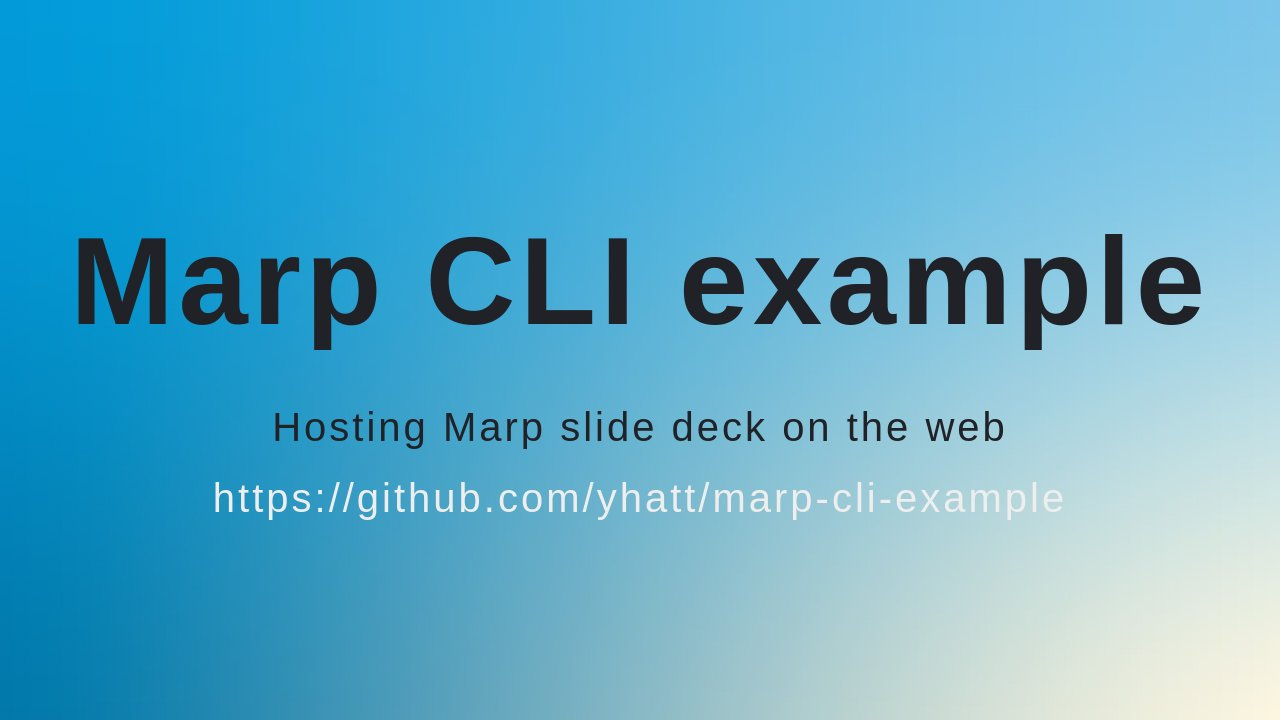
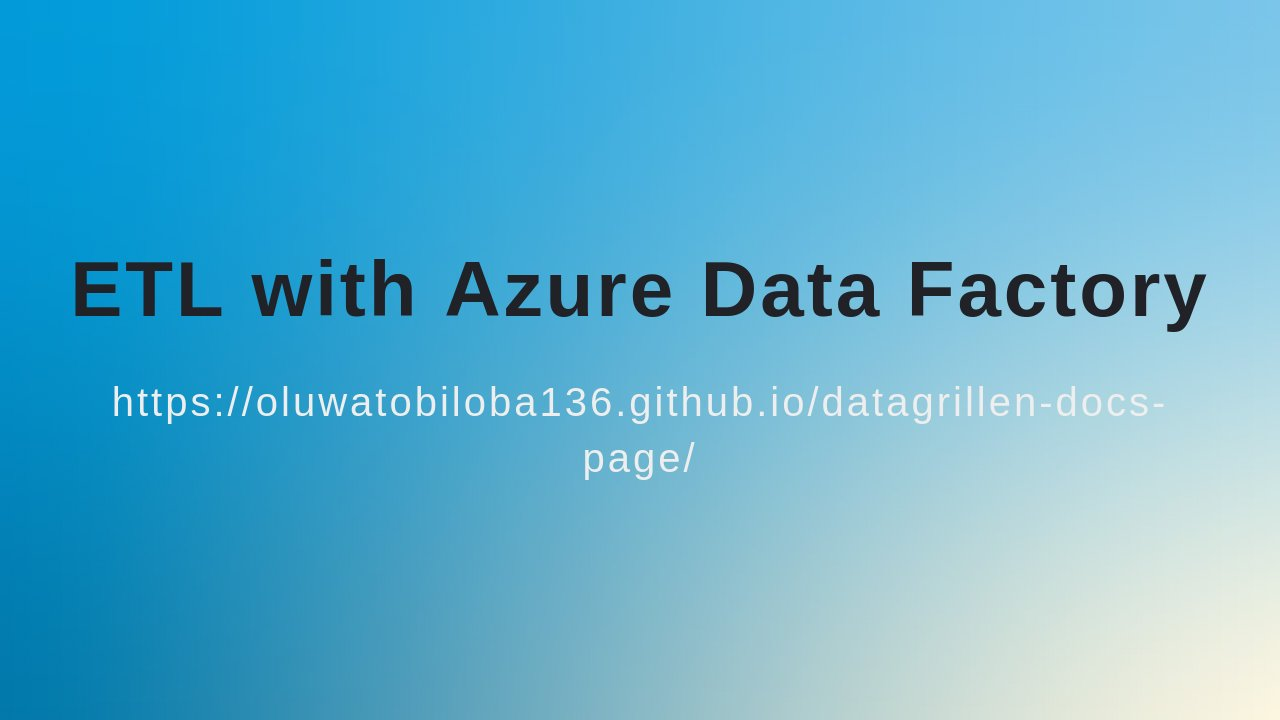
Deploying to gh-pages from  @ 49e7d1d1608596ef21d6ab6153a20d2b8307864e 🚀

Changed region(s): [[0.0312, 0.3056, 0.9375, 0.4889], [0.0625, 0.5194, 0.9062, 0.7333]]

diff --git a/index.html b/index.html
@@ -8,10 +8,10 @@
  * @auto-scaling fittingHeader,math
  * @size 16:9 1280px 720px
  * @size 4:3 960px 720px
[1 lines of base64/hex data omitted]
-<h1><svg data-marp-fitting="svg"><foreignObject><span data-marp-fitting-svg-content> Marp CLI example</span></foreignObject></svg></h1>
-<p>Hosting Marp slide deck on the web</p>
-<p><a href="https://github.com/yhatt/marp-cli-example">https://github.com/yhatt/marp-cli-example</a></p>
[1 lines of base64/hex data omitted]
+<h1><svg data-marp-fitting="svg"><foreignObject><span data-marp-fitting-svg-content> ETL with Azure Data Factory</span></foreignObject></svg></h1>
+
+<p><a href="https://oluwatobiloba136.github.io/datagrillen-docs-page/">https://oluwatobiloba136.github.io/datagrillen-docs-page/</a></p>
 </section>
 </foreignObject><foreignObject width="1280" height="720" data-marpit-advanced-background="pseudo"><section style="" data-marpit-advanced-background="pseudo"></section></foreignObject></svg><svg data-marpit-svg="" viewBox="0 0 1280 720"><foreignObject width="1280" height="720"><section data-paginate="true" data-theme="uncover" data-marpit-pagination="2" data-marpit-pagination-total="8" style="--paginate:true;--theme:uncover;" data-marpit-advanced-background="background"><div data-marpit-advanced-background-container="true" data-marpit-advanced-background-direction="horizontal"><figure style="background-image:url(&quot;https://raw.githubusercontent.com/marp-team/marp/master/marp.png&quot;);background-size:60%;"></figure></div></section></foreignObject><foreignObject width="1280" height="720"><section id="2" data-paginate="true" data-theme="uncover" data-marpit-pagination="2" data-marpit-pagination-total="8" style="--paginate:true;--theme:uncover;" data-marpit-advanced-background="content"></section>
 </foreignObject><foreignObject width="1280" height="720" data-marpit-advanced-background="pseudo"><section style="" data-marpit-advanced-background="pseudo" data-marpit-pagination="2" data-marpit-pagination-total="8"></section></foreignObject></svg><svg data-marpit-svg="" viewBox="0 0 1280 720"><foreignObject width="1280" height="720"><section id="3" data-paginate="true" data-theme="uncover" data-background-color="#123" data-color="#fff" data-marpit-pagination="3" data-marpit-pagination-total="8" style="--paginate:true;--theme:uncover;--background-color:#123;--color:#fff;color:#fff;background-color:#123;background-image:none;">
@@ -41,5 +41,5 @@
 <p><a href="https://github.com/yhatt/marp-cli-example">https://github.com/yhatt/marp-cli-example</a></p>
 </section>
 <script>!function(){"use strict";const t="marpitSVGPolyfill:setZoomFactor,",e=Symbol();let r,o;function n(n){const i="object"==typeof n&&n.target||document,a="object"==typeof n?n.zoom:n;window[e]||(Object.defineProperty(window,e,{configurable:!0,value:!0}),window.addEventListener("message",(({data:e,origin:r})=>{if(r===window.origin)try{if(e&&"string"==typeof e&&e.startsWith(t)){const[,t]=e.split(","),r=Number.parseFloat(t);Number.isNaN(r)||(o=r)}}catch(t){console.error(t)}})));let l=!1;Array.from(i.querySelectorAll("svg[data-marpit-svg]"),(t=>{var e,n,i,s;t.style.transform||(t.style.transform="translateZ(0)");const c=a||o||t.currentScale||1;r!==c&&(r=c,l=c);const d=t.getBoundingClientRect(),{length:u}=t.children;for(let r=0;r<u;r+=1){const o=t.children[r],a=o.getScreenCTM();if(a){const t=null!==(n=null===(e=o.x)||void 0===e?void 0:e.baseVal.value)&&void 0!==n?n:0,r=null!==(s=null===(i=o.y)||void 0===i?void 0:i.baseVal.value)&&void 0!==s?s:0,l=o.firstElementChild,{style:u}=l;u.transformOrigin||(u.transformOrigin=`${-t}px ${-r}px`),u.transform=`scale(${c}) matrix(${a.a}, ${a.b}, ${a.c}, ${a.d}, ${a.e-d.left}, ${a.f-d.top}) translateZ(0.0001px)`}}})),!1!==l&&Array.from(i.querySelectorAll("iframe"),(({contentWindow:e})=>{null==e||e.postMessage(`${t}${l}`,"null"===window.origin?"*":window.origin)}))}r=1,o=void 0;const i=(t,e,r)=>{if(t.getAttribute(e)!==r)return t.setAttribute(e,r),!0};function a({once:t=!1,target:e=document}={}){const r="Apple Computer, Inc."===navigator.vendor?[n]:[];let o=!t;const a=()=>{for(const t of r)t({target:e});!function(t=document){Array.from(t.querySelectorAll('svg[data-marp-fitting="svg"]'),(t=>{var e;const r=t.firstChild,o=r.firstChild,{scrollWidth:n,scrollHeight:a}=o;let l,s=1;if(t.hasAttribute("data-marp-fitting-code")&&(l=null===(e=t.parentElement)||void 0===e?void 0:e.parentElement),t.hasAttribute("data-marp-fitting-math")&&(l=t.parentElement),l){const t=getComputedStyle(l),e=Math.ceil(l.clientWidth-parseFloat(t.paddingLeft||"0")-parseFloat(t.paddingRight||"0"));e&&(s=e)}const c=Math.max(n,s),d=Math.max(a,1),u=`0 0 ${c} ${d}`;i(r,"width",`${c}`),i(r,"height",`${d}`),i(t,"preserveAspectRatio",getComputedStyle(t).getPropertyValue("--preserve-aspect-ratio")||"xMinYMin meet"),i(t,"viewBox",u)&&t.classList.toggle("__reflow__")}))}(e),o&&window.requestAnimationFrame(a)};return a(),()=>{o=!1}}const l=Symbol(),s=document.currentScript;((t=document)=>{if("undefined"==typeof window)throw new Error("Marp Core's browser script is valid only in browser context.");if(t[l])return t[l];const e=a({target:t}),r=()=>{e(),delete t[l]};Object.defineProperty(t,l,{configurable:!0,value:r})})(s?s.getRootNode():document)}();
-</script></foreignObject><foreignObject width="1280" height="720" data-marpit-advanced-background="pseudo"><section style="" data-marpit-advanced-background="pseudo" data-marpit-pagination="8" data-marpit-pagination-total="8"></section></foreignObject></svg></div><div class="bespoke-marp-note" data-index="0" tabindex="0"><p>This is presenter note. You can write down notes through HTML comment.</p></div><script>/*!! License: https://unpkg.com/@marp-team/marp-cli@1.7.0/lib/bespoke.js.LICENSE.txt */
+</script></foreignObject><foreignObject width="1280" height="720" data-marpit-advanced-background="pseudo"><section style="" data-marpit-advanced-background="pseudo" data-marpit-pagination="8" data-marpit-pagination-total="8"></section></foreignObject></svg></div><div class="bespoke-marp-note" data-index="0" tabindex="0"><p>Hosting Marp slide deck on the web</p><p>This is presenter note. You can write down notes through HTML comment.</p></div><script>/*!! License: https://unpkg.com/@marp-team/marp-cli@1.7.0/lib/bespoke.js.LICENSE.txt */
 !function(){"use strict";const e=document.body,t=(...e)=>history.replaceState(...e),n="presenter",r="next",o=["",n,r],a="data-bespoke-marp-",i=(e,{protocol:t,host:n,pathname:r,hash:o}=location)=>{const a=e.toString();return`${t}//${n}${r}${a?"?":""}${a}${o}`},s=()=>e.dataset.bespokeView,l=e=>new URLSearchParams(location.search).get(e),d=(e,n={})=>{var r;const o={location,setter:t,...n},a=new URLSearchParams(o.location.search);for(const t of Object.keys(e)){const n=e[t];"string"==typeof n?a.set(t,n):a.delete(t)}try{o.setter({...null!==(r=window.history.state)&&void 0!==r?r:{}},"",i(a,o.location))}catch(e){console.error(e)}},c=(()=>{const e="bespoke-marp";try{return localStorage.setItem(e,e),localStorage.removeItem(e),!0}catch(e){return!1}})(),u=e=>{try{return localStorage.getItem(e)}catch(e){return null}},f=(e,t)=>{try{return localStorage.setItem(e,t),!0}catch(e){return!1}},m=e=>{try{return localStorage.removeItem(e),!0}catch(e){return!1}},g=(e,t)=>{const n="aria-hidden";t?e.setAttribute(n,"true"):e.removeAttribute(n)},p=e=>{e.parent.classList.add("bespoke-marp-parent"),e.slides.forEach((e=>e.classList.add("bespoke-marp-slide"))),e.on("activate",(t=>{const n="bespoke-marp-active",r=t.slide,o=r.classList,a=!o.contains(n);if(e.slides.forEach((e=>{e.classList.remove(n),g(e,!0)})),o.add(n),g(r,!1),a){const e=`${n}-ready`;o.add(e),document.body.clientHeight,o.remove(e)}}))},v=e=>{let t=0,n=0;Object.defineProperty(e,"fragments",{enumerable:!0,value:e.slides.map((e=>[null,...e.querySelectorAll("[data-marpit-fragment]")]))});const r=r=>void 0!==e.fragments[t][n+r],o=(r,o)=>{t=r,n=o,e.fragments.forEach(((e,t)=>{e.forEach(((e,n)=>{if(null==e)return;const i=t<r||t===r&&n<=o;e.setAttribute(`${a}fragment`,(i?"":"in")+"active");const s=`${a}current-fragment`;t===r&&n===o?e.setAttribute(s,"current"):e.removeAttribute(s)}))})),e.fragmentIndex=o;const i={slide:e.slides[r],index:r,fragments:e.fragments[r],fragmentIndex:o};e.fire("fragment",i)};e.on("next",(({fragment:a=!0})=>{if(a){if(r(1))return o(t,n+1),!1;const a=t+1;e.fragments[a]&&o(a,0)}else{const r=e.fragments[t].length;if(n+1<r)return o(t,r-1),!1;const a=e.fragments[t+1];a&&o(t+1,a.length-1)}})),e.on("prev",(({fragment:a=!0})=>{if(r(-1)&&a)return o(t,n-1),!1;const i=t-1;e.fragments[i]&&o(i,e.fragments[i].length-1)})),e.on("slide",(({index:t,fragment:n})=>{let r=0;if(void 0!==n){const o=e.fragments[t];if(o){const{length:e}=o;r=-1===n?e-1:Math.min(Math.max(n,0),e-1)}}o(t,r)})),o(0,0)},h=document,y=()=>!(!h.fullscreenEnabled&&!h.webkitFullscreenEnabled),b=()=>!(!h.fullscreenElement&&!h.webkitFullscreenElement),x=e=>{e.fullscreen=()=>{y()&&(async()=>{return b()?null===(e=h.exitFullscreen||h.webkitExitFullscreen)||void 0===e?void 0:e.call(h):((e=h.body)=>{var t;return null===(t=e.requestFullscreen||e.webkitRequestFullscreen)||void 0===t?void 0:t.call(e)})();var e})()},document.addEventListener("keydown",(t=>{"f"!==t.key&&"F11"!==t.key||t.altKey||t.ctrlKey||t.metaKey||!y()||(e.fullscreen(),t.preventDefault())}))},w="bespoke-marp-inactive",k=(e=2e3)=>({parent:t,fire:n})=>{const r=t.classList,o=e=>n(`marp-${e?"":"in"}active`);let a;const i=()=>{a&&clearTimeout(a),a=setTimeout((()=>{r.add(w),o()}),e),r.contains(w)&&(r.remove(w),o(!0))};for(const e of["mousedown","mousemove","touchend"])document.addEventListener(e,i);setTimeout(i,0)},E=["AUDIO","BUTTON","INPUT","SELECT","TEXTAREA","VIDEO"],L=e=>{e.parent.addEventListener("keydown",(e=>{if(!e.target)return;const t=e.target;(E.includes(t.nodeName)||"true"===t.contentEditable)&&e.stopPropagation()}))},$=e=>{window.addEventListener("load",(()=>{for(const t of e.slides){const e=t.querySelector("[data-marp-fitting]")?"":"hideable";t.setAttribute(`${a}load`,e)}}))},S=({interval:e=250}={})=>t=>{document.addEventListener("keydown",(e=>{if(" "===e.key&&e.shiftKey)t.prev();else if("ArrowLeft"===e.key||"ArrowUp"===e.key||"PageUp"===e.key)t.prev({fragment:!e.shiftKey});else if(" "!==e.key||e.shiftKey)if("ArrowRight"===e.key||"ArrowDown"===e.key||"PageDown"===e.key)t.next({fragment:!e.shiftKey});else if("End"===e.key)t.slide(t.slides.length-1,{fragment:-1});else{if("Home"!==e.key)return;t.slide(0)}else t.next();e.preventDefault()}));let n,r,o=0;t.parent.addEventListener("wheel",(a=>{let i=!1;const s=(e,t)=>{e&&(i=i||((e,t)=>((e,t)=>{const n="X"===t?"Width":"Height";return e[`client${n}`]<e[`scroll${n}`]})(e,t)&&((e,t)=>{const{overflow:n}=e,r=e[`overflow${t}`];return"auto"===n||"scroll"===n||"auto"===r||"scroll"===r})(getComputedStyle(e),t))(e,t)),(null==e?void 0:e.parentElement)&&s(e.parentElement,t)};if(0!==a.deltaX&&s(a.target,"X"),0!==a.deltaY&&s(a.target,"Y"),i)return;a.preventDefault();const l=Math.sqrt(a.deltaX**2+a.deltaY**2);if(void 0!==a.wheelDelta){if(void 0===a.webkitForce&&Math.abs(a.wheelDelta)<40)return;if(a.deltaMode===a.DOM_DELTA_PIXEL&&l<4)return}else if(a.deltaMode===a.DOM_DELTA_PIXEL&&l<12)return;r&&clearTimeout(r),r=setTimeout((()=>{n=0}),e);const d=Date.now()-o<e,c=l<=n;if(n=l,d||c)return;let u;(a.deltaX>0||a.deltaY>0)&&(u="next"),(a.deltaX<0||a.deltaY<0)&&(u="prev"),u&&(t[u](),o=Date.now())}))},P=(e=".bespoke-marp-osc")=>{const t=document.querySelector(e);if(!t)return()=>{};const n=(e,n)=>{t.querySelectorAll(`[${a}osc=${JSON.stringify(e)}]`).forEach(n)};return y()||n("fullscreen",(e=>e.style.display="none")),c||n("presenter",(e=>{e.disabled=!0,e.title="Presenter view is disabled due to restricted localStorage."})),e=>{t.addEventListener("click",(t=>{if(t.target instanceof HTMLElement){const{bespokeMarpOsc:n}=t.target.dataset;n&&t.target.blur();const r={fragment:!t.shiftKey};"next"===n?e.next(r):"prev"===n?e.prev(r):"fullscreen"===n?null==e||e.fullscreen():"presenter"===n&&e.openPresenterView()}})),e.parent.appendChild(t),e.on("activate",(({index:t})=>{n("page",(n=>n.textContent=`Page ${t+1} of ${e.slides.length}`))})),e.on("fragment",(({index:t,fragments:r,fragmentIndex:o})=>{n("prev",(e=>e.disabled=0===t&&0===o)),n("next",(n=>n.disabled=t===e.slides.length-1&&o===r.length-1))})),e.on("marp-active",(()=>g(t,!1))),e.on("marp-inactive",(()=>g(t,!0))),y()&&(e=>{for(const t of["","webkit"])h.addEventListener(t+"fullscreenchange",e)})((()=>n("fullscreen",(e=>e.classList.toggle("exit",y()&&b())))))}},T=e=>{window.addEventListener("message",(t=>{if(t.origin!==window.origin)return;const[n,r]=t.data.split(":");if("navigate"===n){const[t,n]=r.split(",");let o=Number.parseInt(t,10),a=Number.parseInt(n,10)+1;a>=e.fragments[o].length&&(o+=1,a=0),e.slide(o,{fragment:a})}}))};var I=["area","base","br","col","command","embed","hr","img","input","keygen","link","meta","param","source","track","wbr"];let N=e=>String(e).replace(/[&<>"']/g,(e=>`&${C[e]};`)),C={"&":"amp","<":"lt",">":"gt",'"':"quot","'":"apos"},A="dangerouslySetInnerHTML",D={className:"class",htmlFor:"for"},M={};function B(e,t){let n=[],r="";t=t||{};for(let e=arguments.length;e-- >2;)n.push(arguments[e]);if("function"==typeof e)return t.children=n.reverse(),e(t);if(e){if(r+="<"+e,t)for(let e in t)!1!==t[e]&&null!=t[e]&&e!==A&&(r+=` ${D[e]?D[e]:N(e)}="${N(t[e])}"`);r+=">"}if(-1===I.indexOf(e)){if(t[A])r+=t[A].__html;else for(;n.length;){let e=n.pop();if(e)if(e.pop)for(let t=e.length;t--;)n.push(e[t]);else r+=!0===M[e]?e:N(e)}r+=e?`</${e}>`:""}return M[r]=!0,r}const K=({children:e})=>B(null,null,...e),O="bespoke-marp-presenter-",q={container:`${O}container`,dragbar:`${O}dragbar-container`,next:`${O}next`,nextContainer:`${O}next-container`,noteContainer:`${O}note-container`,noteWrapper:`${O}note-wrapper`,noteButtons:`${O}note-buttons`,infoContainer:`${O}info-container`,infoPage:`${O}info-page`,infoPageText:`${O}info-page-text`,infoPagePrev:`${O}info-page-prev`,infoPageNext:`${O}info-page-next`,noteButtonsBigger:`${O}note-bigger`,noteButtonsSmaller:`${O}note-smaller`,infoTime:`${O}info-time`,infoTimer:`${O}info-timer`},_=e=>{const{title:t}=document;document.title="[Presenter view]"+(t?` - ${t}`:"");const n={},r=e=>(n[e]=n[e]||document.querySelector(`.${e}`),n[e]);document.body.appendChild((e=>{const t=document.createElement("div");return t.className=q.container,t.appendChild(e),t.insertAdjacentHTML("beforeend",B(K,null,B("div",{class:q.nextContainer},B("iframe",{class:q.next,src:"?view=next"})),B("div",{class:q.dragbar}),B("div",{class:q.noteContainer},B("div",{class:q.noteWrapper}),B("div",{class:q.noteButtons},B("button",{class:q.noteButtonsSmaller,tabindex:"-1",title:"Smaller notes font size"},"Smaller notes font size"),B("button",{class:q.noteButtonsBigger,tabindex:"-1",title:"Bigger notes font size"},"Bigger notes font size"))),B("div",{class:q.infoContainer},B("div",{class:q.infoPage},B("button",{class:q.infoPagePrev,tabindex:"-1",title:"Previous"},"Previous"),B("span",{class:q.infoPageText}),B("button",{class:q.infoPageNext,tabindex:"-1",title:"Next"},"Next")),B("time",{class:q.infoTime,title:"Current time"}),B("time",{class:q.infoTimer,title:"Timer"})))),t})(e.parent)),(e=>{let t=!1;r(q.dragbar).addEventListener("mousedown",(()=>{t=!0,r(q.dragbar).classList.add("active")})),window.addEventListener("mouseup",(()=>{t=!1,r(q.dragbar).classList.remove("active")})),window.addEventListener("mousemove",(e=>{if(!t)return;const n=e.clientX/document.documentElement.clientWidth*100;r(q.container).style.setProperty("--bespoke-marp-presenter-split-ratio",`${Math.max(0,Math.min(100,n))}%`)})),r(q.nextContainer).addEventListener("click",(()=>e.next()));const n=r(q.next),o=(a=n,(e,t)=>{var n;return null===(n=a.contentWindow)||void 0===n?void 0:n.postMessage(`navigate:${e},${t}`,"null"===window.origin?"*":window.origin)});var a;n.addEventListener("load",(()=>{r(q.nextContainer).classList.add("active"),o(e.slide(),e.fragmentIndex),e.on("fragment",(({index:e,fragmentIndex:t})=>o(e,t)))}));const i=document.querySelectorAll(".bespoke-marp-note");i.forEach((e=>{e.addEventListener("keydown",(e=>e.stopPropagation())),r(q.noteWrapper).appendChild(e)})),e.on("activate",(()=>i.forEach((t=>t.classList.toggle("active",t.dataset.index==e.slide())))));let s=0;const l=e=>{s=Math.max(-5,s+e),r(q.noteContainer).style.setProperty("--bespoke-marp-note-font-scale",(1.2**s).toFixed(4))},d=()=>l(1),c=()=>l(-1),u=r(q.noteButtonsBigger),f=r(q.noteButtonsSmaller);u.addEventListener("click",(()=>{u.blur(),d()})),f.addEventListener("click",(()=>{f.blur(),c()})),document.addEventListener("keydown",(e=>{"+"===e.key&&d(),"-"===e.key&&c()}),!0),e.on("activate",(({index:t})=>{r(q.infoPageText).textContent=`${t+1} / ${e.slides.length}`}));const m=r(q.infoPagePrev),g=r(q.infoPageNext);m.addEventListener("click",(t=>{m.blur(),e.prev({fragment:!t.shiftKey})})),g.addEventListener("click",(t=>{g.blur(),e.next({fragment:!t.shiftKey})})),e.on("fragment",(({index:t,fragments:n,fragmentIndex:r})=>{m.disabled=0===t&&0===r,g.disabled=t===e.slides.length-1&&r===n.length-1}));let p=new Date;const v=()=>{const e=new Date,t=e=>`${Math.floor(e)}`.padStart(2,"0"),n=e.getTime()-p.getTime(),o=t(n/1e3%60),a=t(n/1e3/60%60),i=t(n/36e5%24);r(q.infoTime).textContent=e.toLocaleTimeString(),r(q.infoTimer).textContent=`${i}:${a}:${o}`};v(),setInterval(v,250),r(q.infoTimer).addEventListener("click",(()=>{p=new Date}))})(e)},X=e=>{if(!(e=>e.syncKey&&"string"==typeof e.syncKey)(e))throw new Error("The current instance of Bespoke.js is invalid for Marp bespoke presenter plugin.");Object.defineProperties(e,{openPresenterView:{enumerable:!0,value:F},presenterUrl:{enumerable:!0,get:U}}),c&&document.addEventListener("keydown",(t=>{"p"!==t.key||t.altKey||t.ctrlKey||t.metaKey||(t.preventDefault(),e.openPresenterView())}))};function F(){const{max:e,floor:t}=Math,n=e(t(.85*window.innerWidth),640),r=e(t(.85*window.innerHeight),360);return window.open(this.presenterUrl,O+this.syncKey,`width=${n},height=${r},menubar=no,toolbar=no`)}function U(){const e=new URLSearchParams(location.search);return e.set("view","presenter"),e.set("sync",this.syncKey),i(e)}const V=e=>{const t=s();return t===r&&e.appendChild(document.createElement("span")),{"":X,[n]:_,[r]:T}[t]},R=e=>{e.on("activate",(t=>{document.querySelectorAll(".bespoke-progress-parent > .bespoke-progress-bar").forEach((n=>{n.style.flexBasis=100*t.index/(e.slides.length-1)+"%"}))}))},j=e=>{const t=Number.parseInt(e,10);return Number.isNaN(t)?null:t},H=(e={})=>{const t={history:!0,...e};return e=>{let n=!0;const r=e=>{const t=n;try{return n=!0,e()}finally{n=t}},o=(t={fragment:!0})=>{((t,n)=>{const{min:r,max:o}=Math,{fragments:a,slides:i}=e,s=o(0,r(t,i.length-1)),l=o(0,r(n||0,a[s].length-1));s===e.slide()&&l===e.fragmentIndex||e.slide(s,{fragment:l})})((j(location.hash.slice(1))||1)-1,t.fragment?j(l("f")||""):null)};e.on("fragment",(({index:e,fragmentIndex:r})=>{n||d({f:0===r||r.toString()},{location:{...location,hash:`#${e+1}`},setter:(...e)=>t.history?history.pushState(...e):history.replaceState(...e)})})),setTimeout((()=>{o(),window.addEventListener("hashchange",(()=>r((()=>{o({fragment:!1}),d({f:void 0})})))),window.addEventListener("popstate",(()=>{n||r((()=>o()))})),n=!1}),0)}},W=(e={})=>{var n;const r=e.key||(null===(n=window.history.state)||void 0===n?void 0:n.marpBespokeSyncKey)||Math.random().toString(36).slice(2),o=`bespoke-marp-sync-${r}`;var a;a={marpBespokeSyncKey:r},d({},{setter:(e,...n)=>t({...e,...a},...n)});const i=()=>{const e=u(o);return e?JSON.parse(e):Object.create(null)},s=e=>{const t=i(),n={...t,...e(t)};return f(o,JSON.stringify(n)),n},l=()=>{window.removeEventListener("pageshow",l),s((e=>({reference:(e.reference||0)+1})))};return e=>{l(),Object.defineProperty(e,"syncKey",{value:r,enumerable:!0});let t=!0;setTimeout((()=>{e.on("fragment",(e=>{t&&s((()=>({index:e.index,fragmentIndex:e.fragmentIndex})))}))}),0),window.addEventListener("storage",(n=>{if(n.key===o&&n.oldValue&&n.newValue){const r=JSON.parse(n.oldValue),o=JSON.parse(n.newValue);if(r.index!==o.index||r.fragmentIndex!==o.fragmentIndex)try{t=!1,e.slide(o.index,{fragment:o.fragmentIndex})}finally{t=!0}}}));const n=()=>{const{reference:e}=i();void 0===e||e<=1?m(o):s((()=>({reference:e-1})))};window.addEventListener("pagehide",(e=>{e.persisted&&window.addEventListener("pageshow",l),n()})),e.on("destroy",n)}},{PI:Y,abs:J,sqrt:z,atan2:G}=Math,Q={passive:!0},Z=({slope:e=-.7,swipeThreshold:t=30}={})=>n=>{let r;const o=n.parent,a=e=>{const t=o.getBoundingClientRect();return{x:e.pageX-(t.left+t.right)/2,y:e.pageY-(t.top+t.bottom)/2}};o.addEventListener("touchstart",(({touches:e})=>{r=1===e.length?a(e[0]):void 0}),Q),o.addEventListener("touchmove",(e=>{if(r)if(1===e.touches.length){e.preventDefault();const t=a(e.touches[0]),n=t.x-r.x,o=t.y-r.y;r.delta=z(J(n)**2+J(o)**2),r.radian=G(n,o)}else r=void 0})),o.addEventListener("touchend",(o=>{if(r){if(r.delta&&r.delta>=t&&r.radian){const t=(r.radian-e+Y)%(2*Y)-Y;n[t<0?"next":"prev"](),o.stopPropagation()}r=void 0}}),Q)},ee="_tA",te=e=>{const t=document.documentTransition;if(!t)return;let n;e._tP=!1;const r=(n,{back:r,cond:o})=>a=>{var i,s;const l=e.slides[e.slide()].querySelector("section[data-transition]");if(!l)return!0;const d=document.querySelector(".bespoke-marp-osc"),c=d?[d]:void 0;if(e._tP){if(a._tA){e._tP=!1;try{t.start({sharedElements:c}).catch((()=>{}))}catch(e){}return!0}}else{if(!o(a))return!0;const d="transition"+(a.back||r?"Back":""),u=Number.parseInt(null!==(i=l.dataset[`${d}Duration`])&&void 0!==i?i:"",10),f=Number.parseInt(null!==(s=l.dataset[`${d}Delay`])&&void 0!==s?s:"",10),m={};Number.isNaN(u)||(m.duration=u.toString()),Number.isNaN(f)||(m.delay=f.toString()),e._tP=t.prepare({rootTransition:l.dataset[d],rootConfig:m,sharedElements:c}).then((()=>n(a))).catch((()=>n(a)))}return!1};e.on("prev",r((t=>e.prev({...t,[ee]:!0})),{back:!0,cond:e=>{var t;return e.index>0&&!((null===(t=e.fragment)||void 0===t||t)&&n.fragmentIndex>0)}})),e.on("next",r((t=>e.next({...t,[ee]:!0})),{cond:t=>t.index+1<e.slides.length&&!(n.fragmentIndex+1<n.fragments.length)})),setTimeout((()=>{e.on("slide",r((t=>e.slide(t.index,{...t,[ee]:!0})),{cond:t=>{const n=e.slide();return t.index!==n&&(t.back=t.index<n,!0)}}))}),0),e.on("fragment",(e=>{n=e}))};let ne;const re=()=>(void 0===ne&&(ne="wakeLock"in navigator&&navigator.wakeLock),ne),oe=async()=>{const e=re();if(e)try{return await e.request("screen")}catch(e){console.warn(e)}return null},ae=async()=>{if(!re())return;let e;const t=()=>{e&&"visible"===document.visibilityState&&oe()};for(const e of["visibilitychange","fullscreenchange"])document.addEventListener(e,t);return e=await oe(),e};((t=document.getElementById("p"))=>{(()=>{const t=l("view");e.dataset.bespokeView=t===r||t===n?t:""})();const a=(e=>{const t=l(e);return d({[e]:void 0}),t})("sync")||void 0;var i,c,u,f,m,g,h,y,b,w,E,T;i=t,c=((...e)=>{const t=o.findIndex((e=>s()===e));return e.map((([e,n])=>e[t]&&n)).filter((e=>e))})([[1,1,0],W({key:a})],[[1,1,1],V(t)],[[1,1,0],L],[[1,1,1],p],[[1,0,0],k()],[[1,1,1],$],[[1,1,1],H({history:!1})],[[1,1,0],S()],[[1,1,0],x],[[1,0,0],R],[[1,1,0],Z()],[[1,0,0],P()],[[1,0,0],te],[[1,1,1],v],[[1,1,0],ae]),f=1===(i.parent||i).nodeType?i.parent||i:document.querySelector(i.parent||i),m=[].filter.call("string"==typeof i.slides?f.querySelectorAll(i.slides):i.slides||f.children,(function(e){return"SCRIPT"!==e.nodeName})),g={},h=function(e,t){return(t=t||{}).index=m.indexOf(e),t.slide=e,t},w=function(e,t){m[e]&&(u&&b("deactivate",h(u,t)),u=m[e],b("activate",h(u,t)))},E=function(e,t){var n=m.indexOf(u)+e;b(e>0?"next":"prev",h(u,t))&&w(n,t)},T={off:y=function(e,t){g[e]=(g[e]||[]).filter((function(e){return e!==t}))},on:function(e,t){return(g[e]||(g[e]=[])).push(t),y.bind(null,e,t)},fire:b=function(e,t){return(g[e]||[]).reduce((function(e,n){return e&&!1!==n(t)}),!0)},slide:function(e,t){if(!arguments.length)return m.indexOf(u);b("slide",h(m[e],t))&&w(e,t)},next:E.bind(null,1),prev:E.bind(null,-1),parent:f,slides:m,destroy:function(e){b("destroy",h(u,e)),g={}}},(c||[]).forEach((function(e){e(T)})),u||w(0)})()}();</script></body></html>
